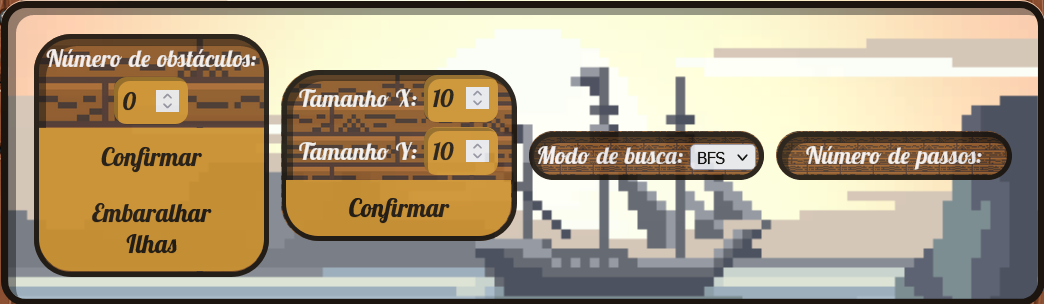
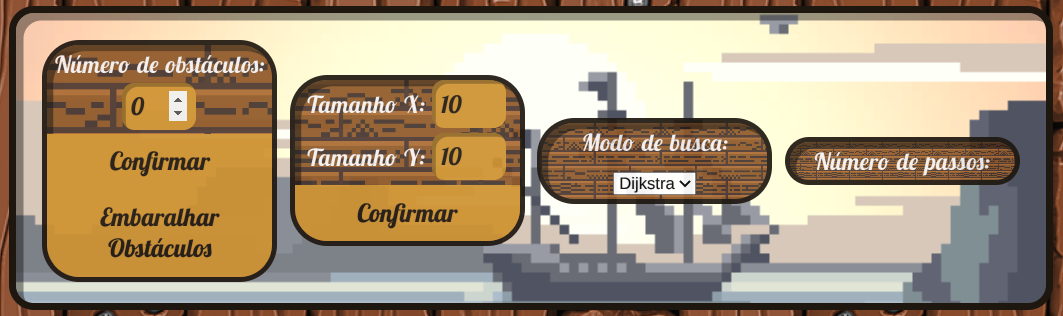
Atualizando assets do projeto

diff --git a/style.css b/style.css
@@ -50,6 +50,8 @@ body {
   margin-left: 0px;
   margin-right: 0px;
   margin-bottom: 350px;
+
+  zoom: 0.9;
 }
 
 .box {

diff --git a/README.md b/README.md
@@ -17,12 +17,18 @@ O programa possui as funções de escolher o número de obstáculos, embaralhar 
 ## Screenshots
 
 <img src="assets/caca-tesouro_logo.png" style="display: block; margin-left: auto; margin-right: auto; width: 30%;">
-<img src="assets/caca-tesouro_tudo.jpg" style="display: block; margin-left: auto; margin-right: auto; width: 70%;">
+<img src="assets/caca-tesouro_tudo.png" style="display: block; margin-left: auto; margin-right: auto; width: 70%;">
 <img src="assets/caca-tesouro_guia.png" style="display: block; margin-left: auto; margin-right: auto; width: 50%;">
 <img src="assets/caca-tesouro_controles.png" style="display: block; margin-left: auto; margin-right: auto; width: 50%;">
 <img src="assets/caca-tesouro_grid.png" style="display: block; margin-left: auto; margin-right: auto; width: 50%;">
 
-## Vídeo de Apresentação
+## Vídeo de Apresentação (Grafos 2)
+
+Vídeo contendo explicação das modificações feitas para a entrega da unidade 2. Foco em apresentar as novidades implementadas. Para melhor contexto do projeto em geral assistir o vídeo de apresentação complementar. Conteúdo: Dijkstra.
+
+## Vídeo de Apresentação Complementar (Grafos 1)
+
+Vídeo complementar contendo explicação da entrega feita para a entrega da unidade 1. Conteúdo: Depth First Search (DFS) ou Breadth First Search (BFS)
 
 <a href="https://www.youtube.com/watch?v=L_0gyZoNA6s" target="_blank">
   <img src="assets/link_video.png" alt="Apresentação">
@@ -33,7 +39,7 @@ O programa possui as funções de escolher o número de obstáculos, embaralhar 
 **Framework**: Não há necessidade de instalar nenhum framework. Para rodar o projeto, basta clonar o repositório e abrir o arquivo index.html no navegador ou acessar o link.<br>
 
 ## Uso 
-Acessar o link <https://projeto-de-algoritmos.github.io/Grafos1_Caca-Tesouro/>
+Acessar o link <https://projeto-de-algoritmos.github.io/Grafos2_Caca-Tesouro/>
 
 Após abrir no navegador, o usuário pode selecionar o navio e o tesouro clicando em dois quadrados no mapa. O programa irá então calcular o caminho mais curto utilizando o algoritmo BFS ou DFS e exibir o caminho no mapa. 
 
